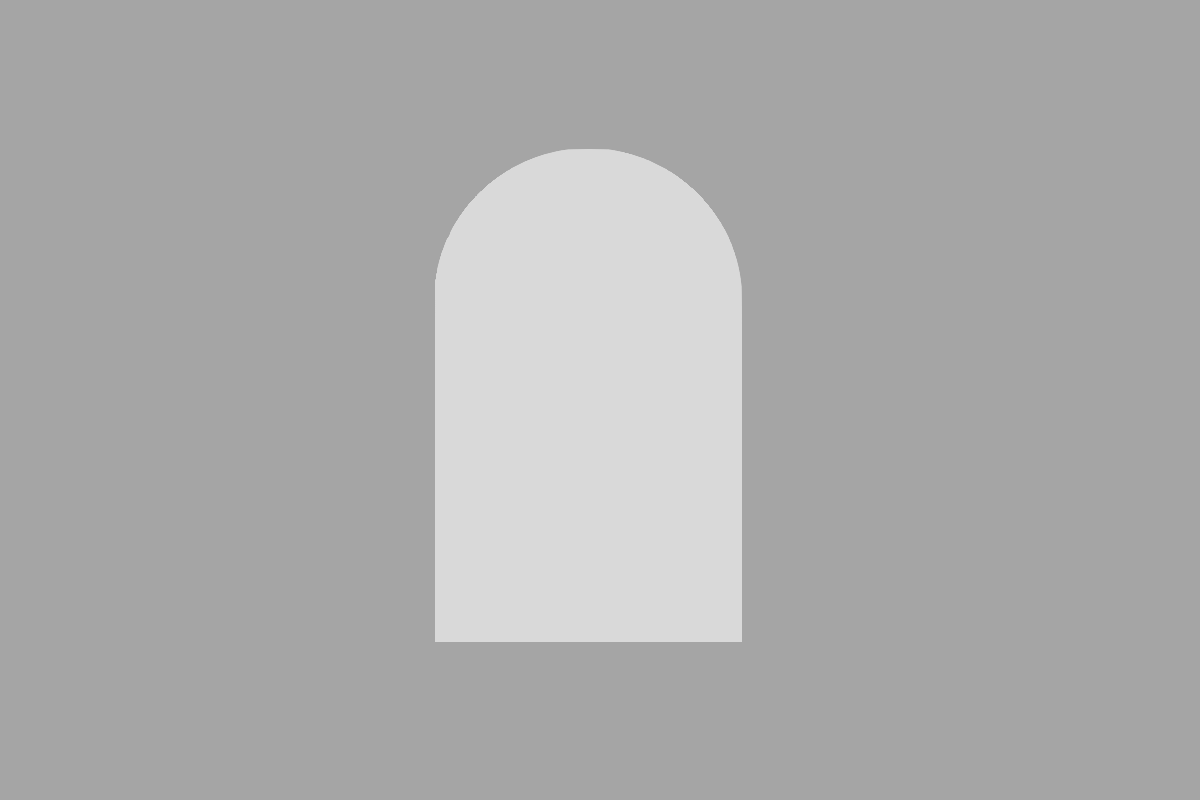
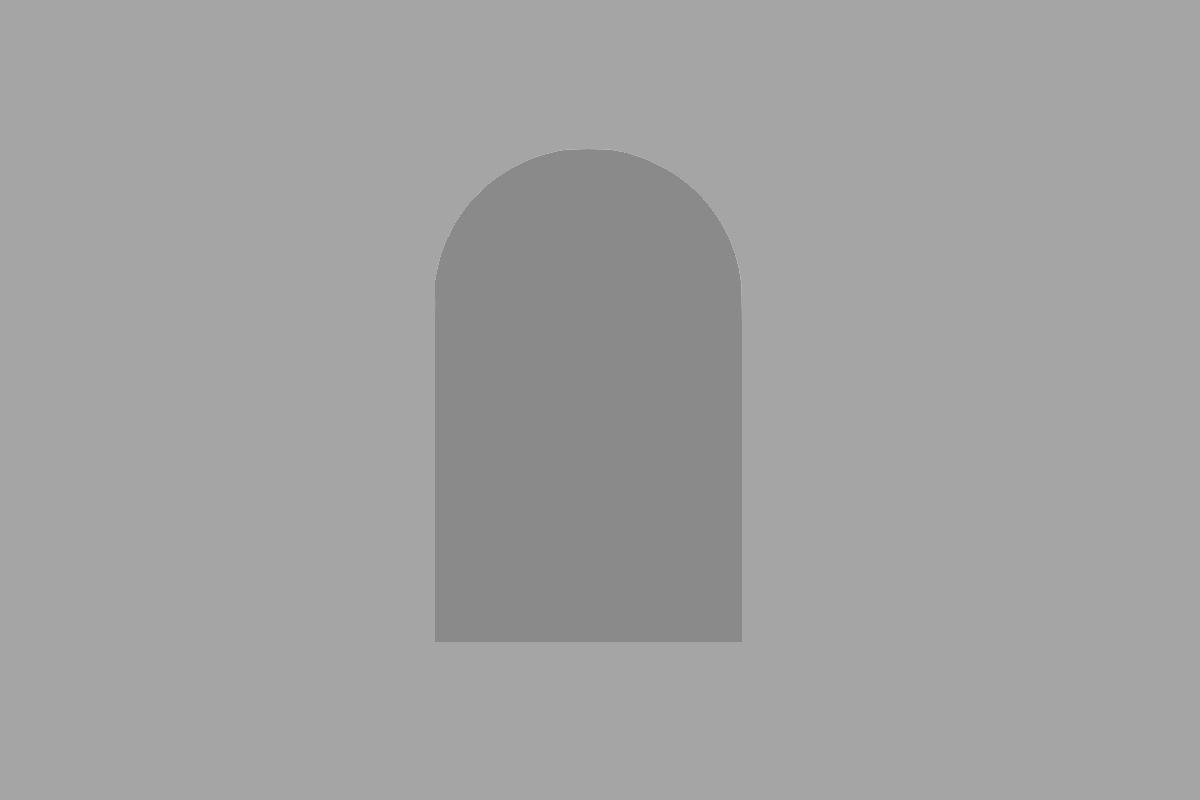
Silhouettes fixed so they don't draw behind visited rooms (messes up punch through masks).

Changed region(s): [[0.3392, 0.1875, 0.6167, 0.8125]]

diff --git a/src/game/drawing/gameStateDrawUtil.ts b/src/game/drawing/gameStateDrawUtil.ts
@@ -22,7 +22,7 @@ import { COLOR_BLACK, COLOR_DARK_GRAY } from "./drawColorConstants";
 import { createScratchCanvas } from "./canvasSurfaceUtil";
 import { drawExitPopover } from "./exitDrawUtil";
 import { drawObscuredRoom } from "./obscureDrawUtil";
-import { drawCacheableRoomShell, drawRoomCharactersAndEffects, drawRoomShell, drawRoomShellExits, drawRoomTitle, drawRoomWaypointsWithHighlight } from "./roomDrawUtil";
+import { drawCacheableRoomShell, drawRoomCharactersAndEffects, drawRoomShellExits, drawRoomTitle, drawRoomWaypointsWithHighlight } from "./roomDrawUtil";
 import { drawRoomRoofs } from "./roomRoofDrawUtil";
 import { calcScalingFactorsForRect, gameToCanvasPosition } from "./drawUtil";
 import { drawItemPopover } from "./itemDrawUtil";
@@ -35,65 +35,6 @@ import { calcPanelOffset } from "./roomPanelProjectionUtil";
 
 const GROUND_HEIGHT_STORIES = 4;
 const GROUND_Y_OFFSET = -1.8;
-
-type CachedRoomSilhouette = {
-  key:string,
-  canvas:CanvasImageSource
-};
-
-const _cachedRoomSilhouettesByGameState = new WeakMap<GameState, CachedRoomSilhouette>();
-
-function _calcRoomSilhouetteCacheKey(gameState:GameState, context:CanvasRenderingContext2D):string {
-  const cameraRect = gameState.camera.currentRect;
-  const scalingFactors = gameState.scalingFactors;
-  return [
-    context.canvas.width,
-    context.canvas.height,
-    cameraRect.x,
-    cameraRect.y,
-    cameraRect.width,
-    cameraRect.height,
-    scalingFactors.roomLineWidth
-  ].join('|');
-}
-
-function _renderRoomSilhouetteCanvas(gameState:GameState, context:CanvasRenderingContext2D):CanvasImageSource|null {
-  const silhouetteCanvas = createScratchCanvas(context.canvas.width, context.canvas.height);
-  if (!silhouetteCanvas) return null;
-  const silhouetteContext = silhouetteCanvas.getContext('2d');
-  if (!silhouetteContext) return null;
-
-  silhouetteContext.clearRect(0, 0, context.canvas.width, context.canvas.height);
-  const drawnExitIds = new Set<string>();
-  for (const room of gameState.rooms) {
-    drawRoomShell(room, gameState.rooms, false, gameState.characters, drawnExitIds,
-      gameState.groundFloorY, gameState.scalingFactors, silhouetteContext as unknown as CanvasRenderingContext2D,
-      true, null, true, null);
-  }
-  silhouetteContext.globalCompositeOperation = 'source-in';
-  silhouetteContext.fillStyle = COLOR_DARK_GRAY;
-  silhouetteContext.fillRect(0, 0, context.canvas.width, context.canvas.height);
-  silhouetteContext.globalCompositeOperation = 'source-over';
-  return silhouetteCanvas;
-}
-
-function _findRoomSilhouetteCanvas(gameState:GameState, context:CanvasRenderingContext2D):CanvasImageSource|null {
-  const cacheKey = _calcRoomSilhouetteCacheKey(gameState, context);
-  const cachedSilhouette = _cachedRoomSilhouettesByGameState.get(gameState);
-  if (cachedSilhouette?.key === cacheKey) return cachedSilhouette.canvas;
-
-  const silhouetteCanvas = _renderRoomSilhouetteCanvas(gameState, context);
-  if (!silhouetteCanvas) return null;
-  _cachedRoomSilhouettesByGameState.set(gameState, { key:cacheKey, canvas:silhouetteCanvas });
-  return silhouetteCanvas;
-}
-
-function _drawRoomSilhouette(gameState:GameState, context:CanvasRenderingContext2D) {
-  if (context.canvas.width <= 0 || context.canvas.height <= 0) return;
-  const silhouetteCanvas = _findRoomSilhouetteCanvas(gameState, context);
-  if (!silhouetteCanvas) return;
-  context.drawImage(silhouetteCanvas, 0, 0);
-}
 
 function _drawReservedRects(layoutPlanner:CanvasLayoutPlanner, context:CanvasRenderingContext2D) {
   if (!DRAW_RESERVED_RECTS) return;
@@ -254,6 +195,17 @@ function _createRoomShellCanvas(room:Room, gameState:GameState, destWidth:number
   });
 }
 
+function _createRoomSilhouetteCanvas(room:Room, gameState:GameState, destWidth:number, destHeight:number):RoomShellVariantImage {
+  return _createRoomVisualCanvas(room, gameState, destWidth, destHeight, (scalingFactors, context) => {
+    drawCacheableRoomShell(room, gameState.rooms, false, gameState.groundFloorY,
+      scalingFactors, context, false, true, null, true, false);
+    context.globalCompositeOperation = 'source-in';
+    context.fillStyle = COLOR_DARK_GRAY;
+    context.fillRect(0, 0, context.canvas.width, context.canvas.height);
+    context.globalCompositeOperation = 'source-over';
+  });
+}
+
 function _createRoomRoofCanvas(room:Room, gameState:GameState, destWidth:number, destHeight:number):RoomShellVariantImage {
   return _createRoomVisualCanvas(room, gameState, destWidth, destHeight, (scalingFactors, context) => {
     drawRoomRoofs(room, gameState.rooms, gameState.groundFloorY, scalingFactors, context);
@@ -277,14 +229,15 @@ function _ensureRoomShellCaches(gameState:GameState, context:CanvasRenderingCont
       ...createEmptyRoomShellVariantImages(),
       active:_createRoomShellCanvas(room, gameState, destWidth, destHeight, true),
       inactive:_createRoomShellCanvas(room, gameState, destWidth, destHeight, false),
+      silhouette:_createRoomSilhouetteCanvas(room, gameState, destWidth, destHeight),
       roof:_createRoomRoofCanvas(room, gameState, destWidth, destHeight)
     });
   }
 }
 
 function _drawCachedRoomVariant(cachedVariant:RoomShellVariantImage|null, room:Room, gameState:GameState,
-  context:CanvasRenderingContext2D):boolean {
-  if (!room.isDiscovered) return false;
+  context:CanvasRenderingContext2D, includeUndiscovered:boolean = false):boolean {
+  if (!includeUndiscovered && !room.isDiscovered) return false;
   if (!cachedVariant?.image || cachedVariant.width <= 0 || cachedVariant.height <= 0) return false;
 
   const shellBounds = _calcProjectedRoomShellBounds(room, gameState.rooms, gameState.groundFloorY, gameState.scalingFactors);
@@ -313,6 +266,14 @@ function _drawCachedRoomShell(room:Room, gameState:GameState, isActive:boolean, 
 function _drawCachedRoomRoof(room:Room, gameState:GameState, context:CanvasRenderingContext2D):boolean {
   const roomShellVariants = gameState.roomShellCacheByRoomId.get(room.id) || null;
   return _drawCachedRoomVariant(roomShellVariants?.roof || null, room, gameState, context);
+}
+
+function _drawRoomSilhouettes(gameState:GameState, context:CanvasRenderingContext2D) {
+  for (const room of gameState.rooms) {
+    if (room.isDiscovered) continue;
+    const roomShellVariants = gameState.roomShellCacheByRoomId.get(room.id) || null;
+    _drawCachedRoomVariant(roomShellVariants?.silhouette || null, room, gameState, context, true);
+  }
 }
 
 export function updateScalingFactorsAsNeeded(gameState:GameState, context:CanvasRenderingContext2D):ScalingFactors {
@@ -348,7 +309,7 @@ export function drawGameState(gameState:GameState, context:CanvasRenderingContex
   const drawnExitIds = new Set<string>();
   const layoutPlanner = new CanvasLayoutPlanner(context.canvas.width, context.canvas.height);
   _drawGround(gameState, context);
-  _drawRoomSilhouette(gameState, context);
+  _drawRoomSilhouettes(gameState, context);
   const roomRenderStates = gameState.rooms.map(room => {
     const charactersInRoom = findCharactersInRoom(room, gameState.characters);
     const isActive = activeCharacter ? charactersInRoom.some(character => character.id === activeCharacter.id) : false;

diff --git a/src/game/types/RoomShellCache.ts b/src/game/types/RoomShellCache.ts
@@ -10,6 +10,7 @@ type RoomShellVariantImage = Readonly<{
 type RoomShellVariantImages = Readonly<{
   active:RoomShellVariantImage,
   inactive:RoomShellVariantImage,
+  silhouette:RoomShellVariantImage,
   roof:RoomShellVariantImage
 }>;
 
@@ -23,6 +24,7 @@ export function createEmptyRoomShellVariantImages():RoomShellVariantImages {
   return {
     active:{ image:null, width:0, height:0, padding:0 },
     inactive:{ image:null, width:0, height:0, padding:0 },
+    silhouette:{ image:null, width:0, height:0, padding:0 },
     roof:{ image:null, width:0, height:0, padding:0 }
   };
 }
